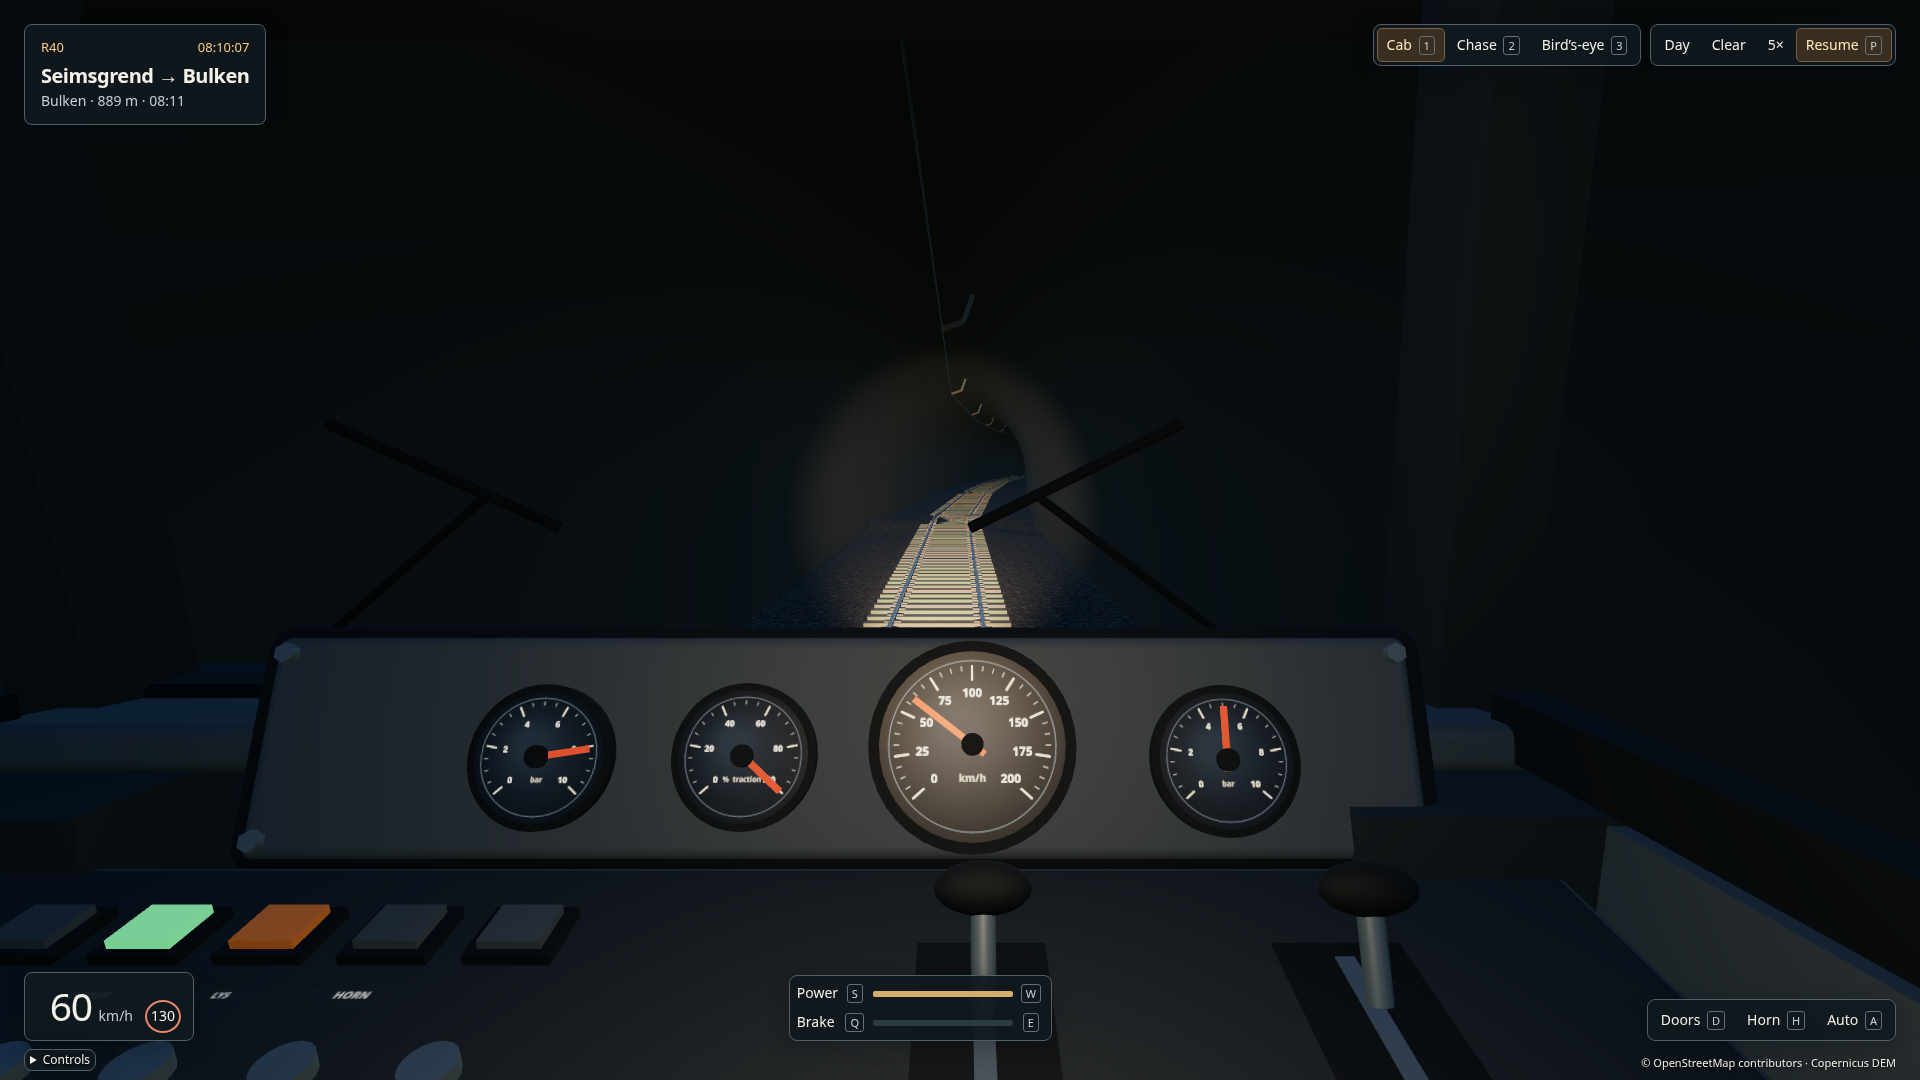
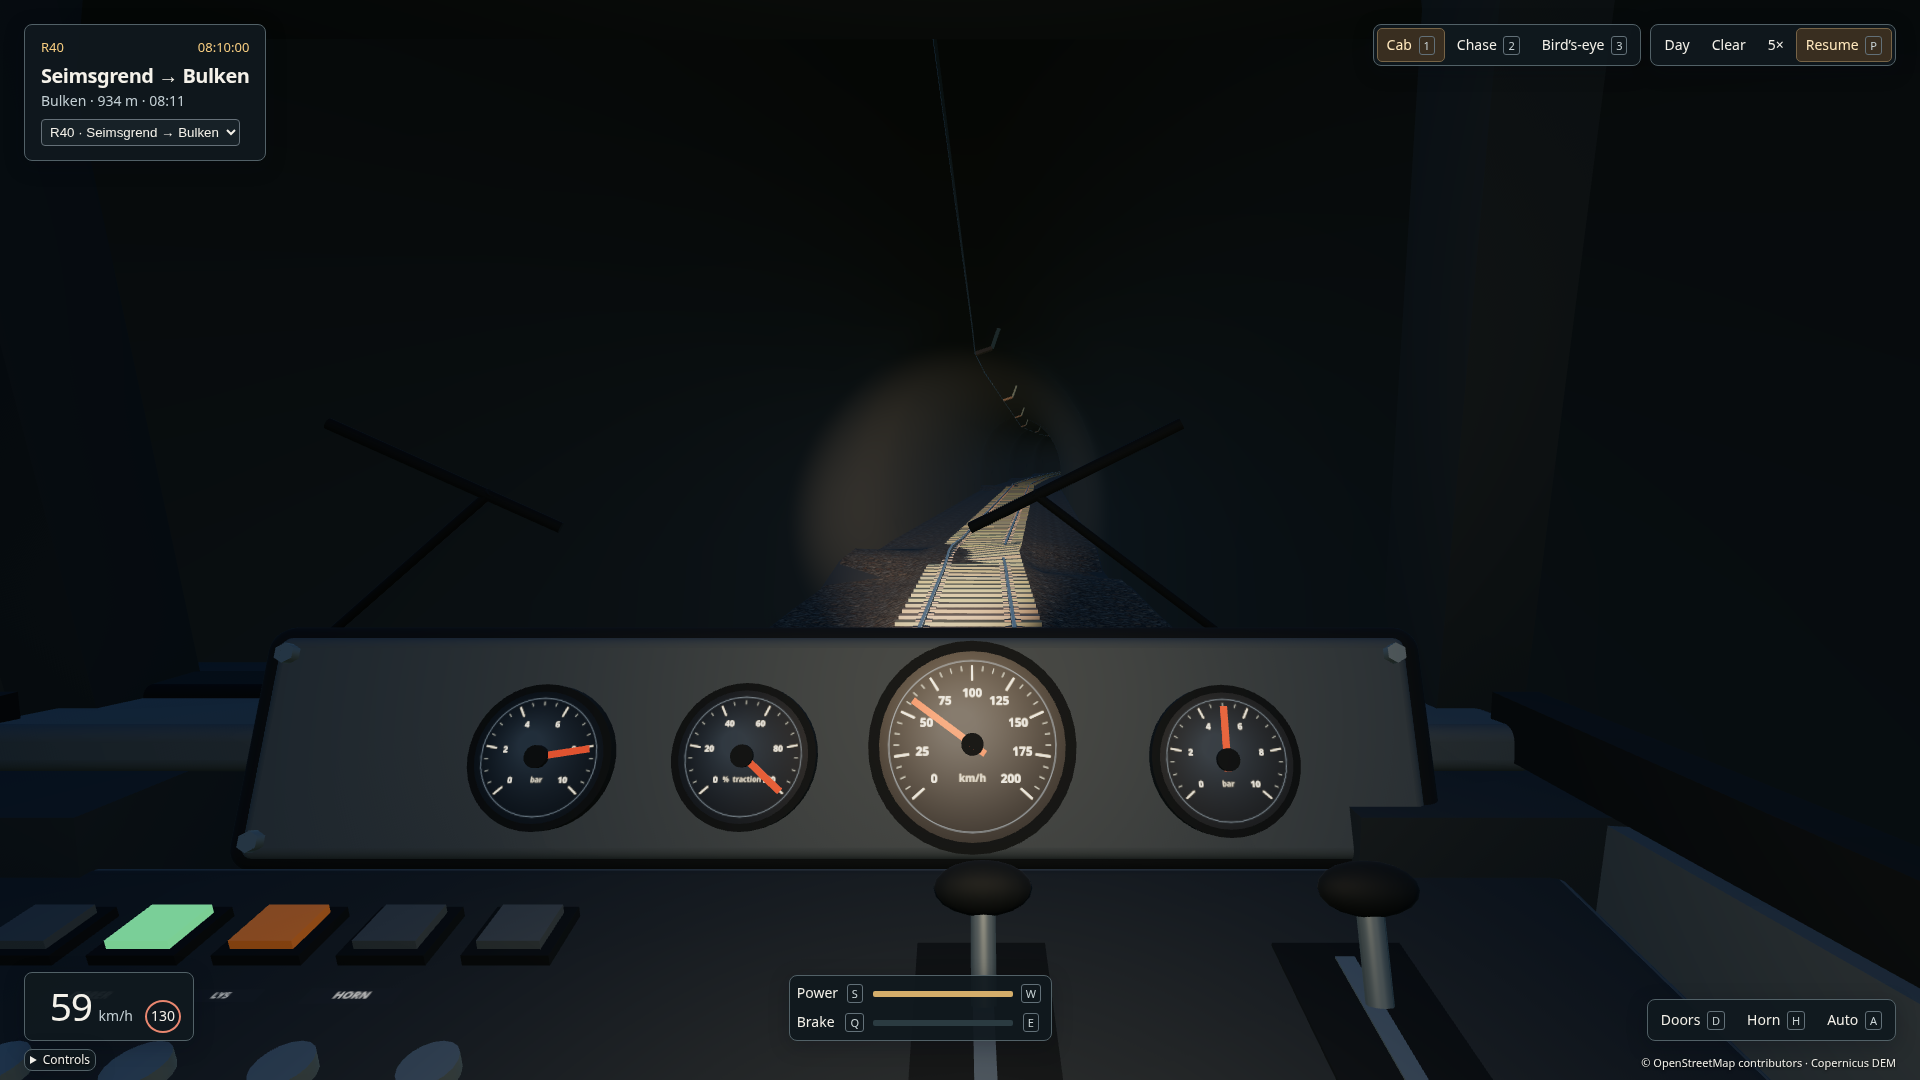
Verify reproducible network data and rehearse the manual Bulken approach

diff --git a/PROGRESS.md b/PROGRESS.md
@@ -57,3 +57,8 @@ The first station-pair checkpoint is in progress. It still needs a validated ser
 - Added a station selector to the intercity bird’s-eye view. It anchors the camera at the mapped station, loads scenery from the selected corridor and leaves the train’s service unchanged. The camera anchor test and all 19 unit tests passed with typecheck, lint and the production build.
 - The offline browser smoke test now verifies a jump from the whole-network view to Stavanger platforms during an F4 service. The queued browser run will exercise the production build.
 - The software rendering benchmark now reads Chromium’s main-thread CPU clock and separately reports wall time. Confirmed Chromium exposes thread timestamps on User Timing marks. The 8 ms proxy limit and the 16.7 ms hardware frame interval limit are unchanged.
+
+## Data regeneration and station approach
+
+- Ran `npm run data` with the documented data toolchain. Every published data file regenerated byte-for-byte, including the R40 checkpoint, 169 intercity tiles, three source bundles, route manifest and timetables.
+- Captured the R40 bridge and tunnel during a browser run. That run passed Bulken’s stopping marker. Revised the manual input sequence to begin braking earlier and tested the full control sequence using five HUD polling intervals. The new browser drive is in progress.

diff --git a/evidence/README.md b/evidence/README.md
@@ -15,3 +15,5 @@ The [capture log](r40-captures.txt) records the nine views and zero console erro
 The [independent station audit](station-membership.txt) checks each displayed name and its coordinates against the pinned OSM extract. It traces nearby stations excluded from the simulation to their actual track. [Reproduction and source digests](station-membership.md)
 
 The browser drive captured the [river bridge](bridge.png) in chase view and the [Bulken tunnel](tunnel.png) from the cab.
+
+The [data rebuild output](data-rebuild.txt) records a full run of `npm run data` and the SHA-256 comparison of its public assets with the committed copies.
